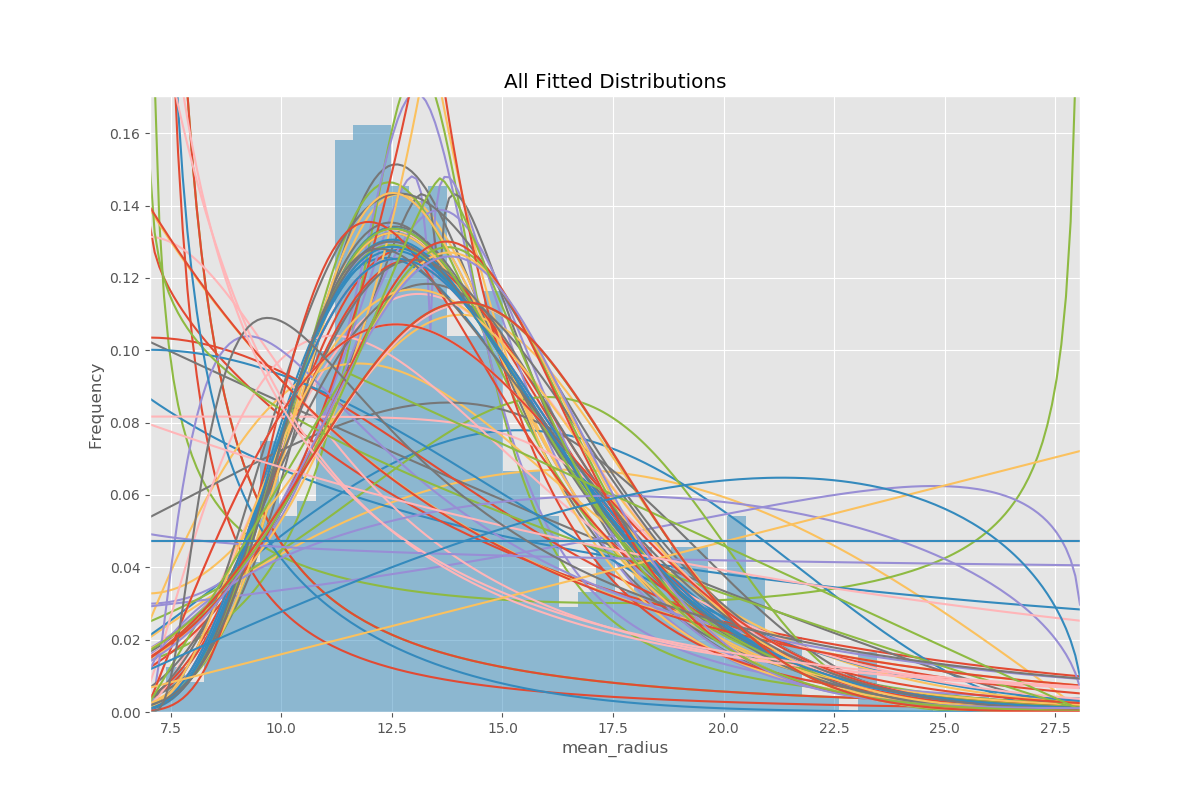
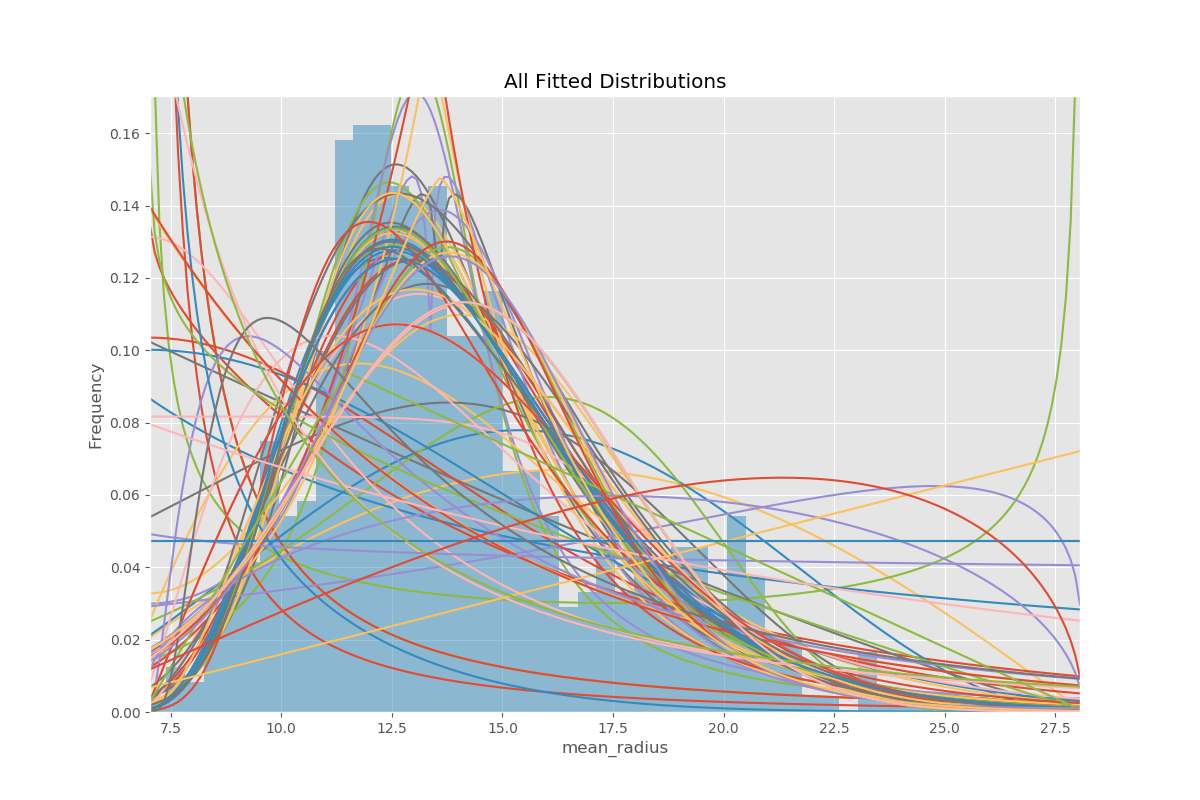
refactored results. removed one distribution

diff --git a/distribution_fitting.py b/distribution_fitting.py
@@ -29,7 +29,7 @@ def best_fit_distribution(data, bins=200, ax=None, sortby='bic', output_folder='
     parameters = []
     dist_param = {}
 
-    for d in ['levy', 'levy_l', 'levy_stable', 'loguniform', 'reciprocal', 'truncnorm', 'vonmises']: distn_names.remove(d)
+    for d in ['levy', 'levy_l', 'levy_stable', 'loguniform', 'reciprocal', 'truncnorm', 'vonmises', 'wrapcauchy']: distn_names.remove(d)
     distributions = distn_names
 
     # Estimate distribution parameters from data
